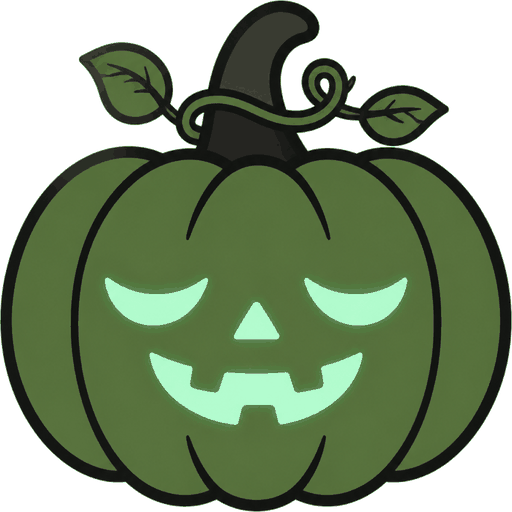
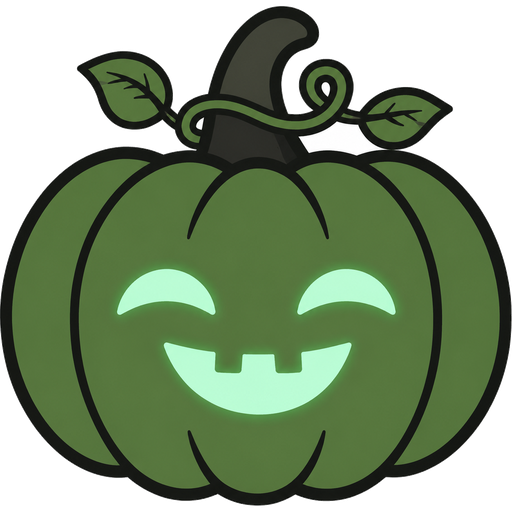
feat(map): redraw the side stop with its faces the other way round
Both side-stop paintings were redrawn to trade expressions: the olive
daylight pumpkin now wears the narrow-eyed, jagged grin, and the dark night
one wears the closed crescent eyes and the two-tooth smile. Bodies, stems,
vines and outlines stay as they were, and the pair is keyed to transparency
at the same 512px size as the rest of the set.

diff --git a/frontend/src/assets/halloween/index.ts b/frontend/src/assets/halloween/index.ts
@@ -243,7 +243,7 @@ export const pumpkins = {
   /** The last stop wears a crown; a side path is a quiet one. */
   boss: { day: pumpkinBossNight, night: pumpkinBoss },
   /** The side stop keeps one face for the small hours and one for the sun. */
-  branch: { day: pumpkinBranchNight, night: pumpkinBranch },
+  branch: { day: pumpkinBranch, night: pumpkinBranchNight },
 } as const
 
 /* The charges painted onto the badges: one picture per family of feats. */
